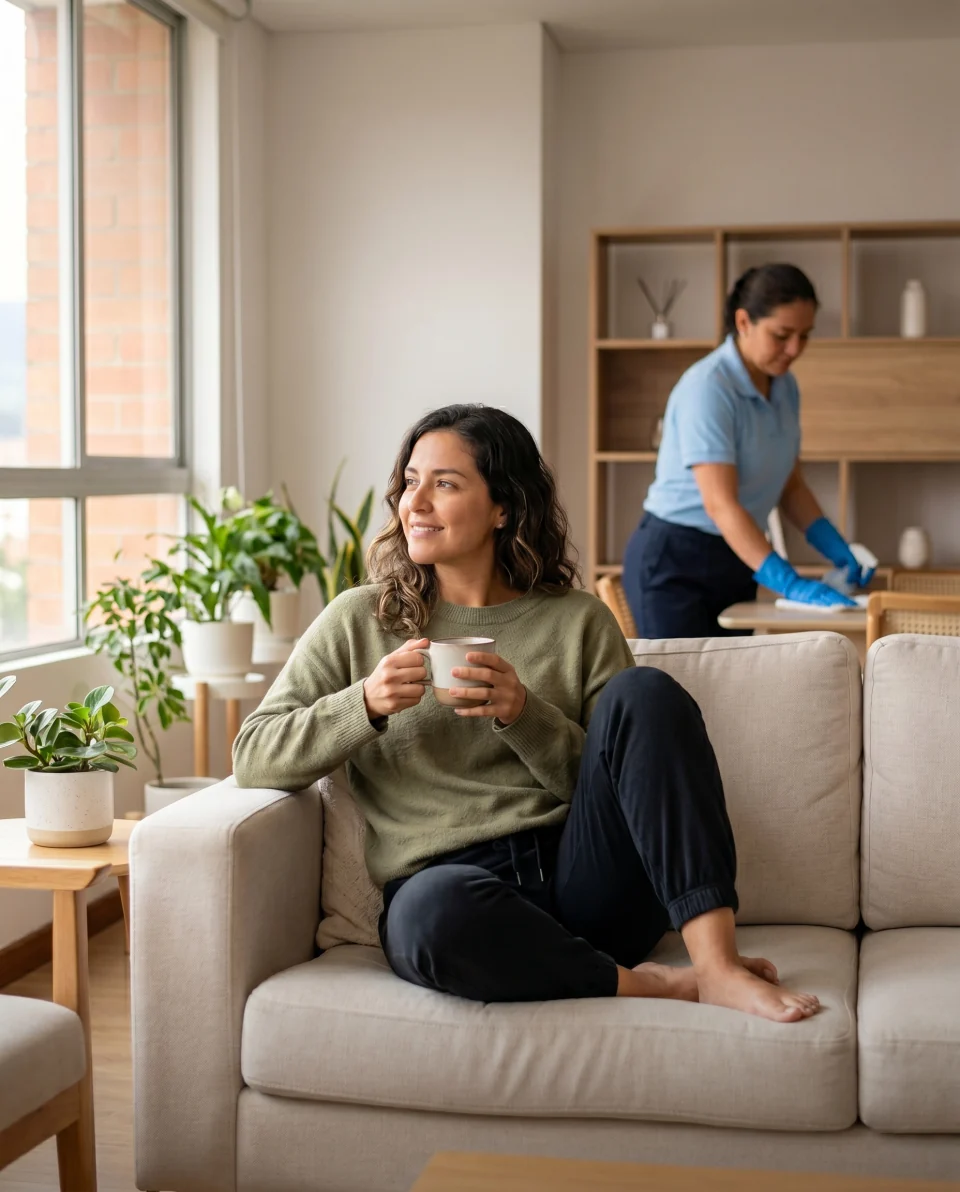
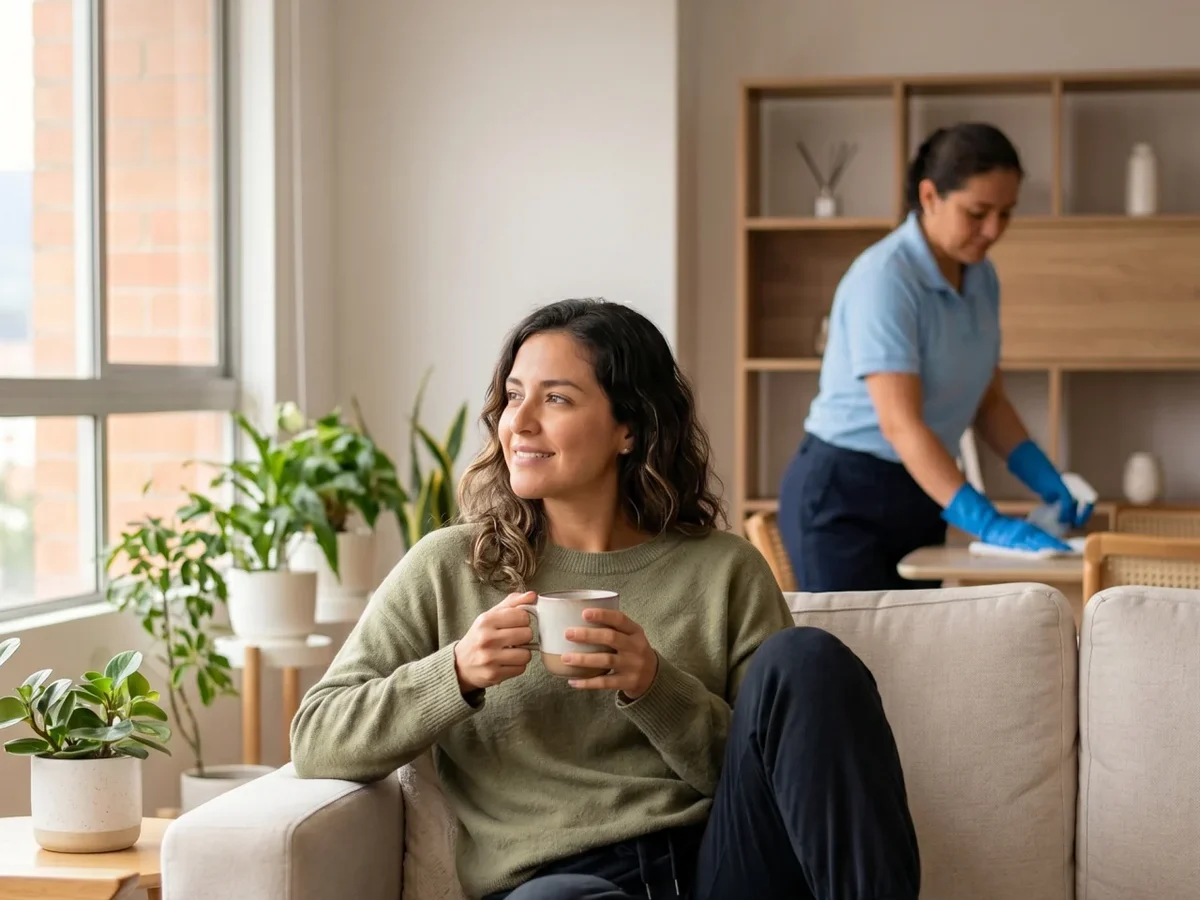
Refine Prosavis media grid, store badges, and CTA hierarchy.

diff --git a/src/components/CurrentWorkProsavis.tsx b/src/components/CurrentWorkProsavis.tsx
@@ -1,8 +1,10 @@
 import { ArrowRight, ExternalLink } from 'lucide-react'
 import {
+  PROSAVIS_APP_STORE_URL,
   PROSAVIS_GROWTH_LINE,
   PROSAVIS_HIGHLIGHTS,
   PROSAVIS_IMAGES,
+  PROSAVIS_LIMPIEZA_URL,
   PROSAVIS_NAME,
   PROSAVIS_PERIOD,
   PROSAVIS_PLAY_STORE_URL,
@@ -20,10 +22,10 @@ import Button from './ui/Button'
 import OptimizedImage from './ui/OptimizedImage'
 
 /**
- * Grilla 12 columnas:
- * 1) Cabecera de marca
- * 2) Media 7 + panel 5 (sin banner OG recortado)
- * 3) Copy/CTAs 7 + suite 5
+ * Grilla 12:
+ * 1) Cabecera
+ * 2) Dos fotos 6/6 (mismo aspect 4:3, sin overlay)
+ * 3) Copy + CTAs jerárquicos + suite
  */
 export default function CurrentWorkProsavis() {
   return (
@@ -38,8 +40,7 @@ export default function CurrentWorkProsavis() {
       />
 
       <div className="relative max-w-6xl mx-auto">
-        {/* ── 1. Cabecera ── */}
-        <header className="mb-10 md:mb-14 max-w-3xl">
+        <header className="mb-10 md:mb-12 max-w-3xl">
           <ProsavisBrand size="lg" className="mb-6" />
           <p className="inline-flex items-center gap-2 text-xs uppercase tracking-[0.25em] font-bold mb-3 text-[var(--color-accent-label)]">
             <span className="w-6 h-px bg-[var(--color-accent-primary)]" aria-hidden />
@@ -54,72 +55,61 @@ export default function CurrentWorkProsavis() {
           </p>
         </header>
 
-        {/* ── 2. Media grid (12) ── */}
-        <div className="grid grid-cols-1 md:grid-cols-12 gap-4 md:gap-5 mb-12 md:mb-16">
-          <a
-            href={PROSAVIS_URL}
-            target="_blank"
-            rel="noopener noreferrer"
-            className="md:col-span-7 group relative block overflow-hidden rounded-2xl ring-1 ring-[var(--color-border-light)]"
-          >
-            <OptimizedImage
-              src={PROSAVIS_IMAGES.limpieza.src}
-              alt={PROSAVIS_IMAGES.limpieza.alt}
-              width={PROSAVIS_IMAGES.limpieza.width}
-              height={PROSAVIS_IMAGES.limpieza.height}
-              className="h-full w-full object-cover transition-transform duration-700 ease-[cubic-bezier(0.22,1,0.36,1)] group-hover:scale-[1.02]"
-              wrapperClassName="aspect-[16/10] md:aspect-[16/11] md:min-h-[22rem]"
-            />
-            <div className="absolute inset-x-0 bottom-0 p-4 md:p-6 bg-gradient-to-t from-black/75 via-black/35 to-transparent">
-              <p className="text-white font-display text-lg md:text-2xl font-semibold">
+        {/* Dos imágenes iguales — sin espacio vacío ni texto encima */}
+        <div className="grid grid-cols-1 sm:grid-cols-2 gap-4 md:gap-5 mb-10 md:mb-14">
+          <figure className="min-w-0">
+            <a
+              href={PROSAVIS_LIMPIEZA_URL}
+              target="_blank"
+              rel="noopener noreferrer"
+              className="group block overflow-hidden rounded-2xl ring-1 ring-[var(--color-border-light)]"
+            >
+              <OptimizedImage
+                src={PROSAVIS_IMAGES.limpieza.src}
+                alt={PROSAVIS_IMAGES.limpieza.alt}
+                width={PROSAVIS_IMAGES.limpieza.width}
+                height={PROSAVIS_IMAGES.limpieza.height}
+                className="absolute inset-0 h-full w-full object-cover object-center transition-transform duration-700 ease-[cubic-bezier(0.22,1,0.36,1)] group-hover:scale-[1.02]"
+                wrapperClassName="aspect-[4/3]"
+              />
+            </a>
+            <figcaption className="mt-3 px-0.5">
+              <p className="font-display text-base font-semibold text-[var(--color-text-primary)]">
                 Prosavis Limpieza
               </p>
-              <p className="text-white/85 text-sm mt-1">Producto vivo · Eje Cafetero</p>
-            </div>
-          </a>
+              <p className="text-sm text-[var(--color-text-secondary)] mt-0.5">
+                Producto vivo · Pereira, Dosquebradas y Cerritos
+              </p>
+            </figcaption>
+          </figure>
 
-          <div className="md:col-span-5 grid grid-cols-1 sm:grid-cols-2 md:grid-cols-1 gap-4 md:gap-5 min-w-0">
-            {/* Tarjeta de mensaje completa — reemplaza el OG recortado */}
+          <figure className="min-w-0">
             <a
               href={PROSAVIS_URL}
               target="_blank"
               rel="noopener noreferrer"
-              className="group flex min-h-[11rem] md:min-h-0 md:flex-1 flex-col justify-between rounded-2xl p-5 md:p-6 text-left transition-transform duration-300 hover:-translate-y-0.5"
-              style={{ background: '#1A6FD4' }}
-            >
-              <div>
-                <p className="font-display text-xl md:text-2xl font-semibold text-white text-balance leading-snug">
-                  Servicios verificados en Colombia
-                </p>
-                <p className="mt-2 text-sm text-white/90 leading-relaxed">
-                  Plomería · Limpieza · Electricidad y más
-                </p>
-              </div>
-              <span className="mt-5 inline-flex w-fit items-center gap-2 rounded-full bg-white px-4 py-2 text-sm font-semibold text-[#0B1220]">
-                prosavis.com
-                <ExternalLink size={14} aria-hidden />
-              </span>
-            </a>
-
-            <a
-              href={PROSAVIS_URL}
-              target="_blank"
-              rel="noopener noreferrer"
-              className="group relative block overflow-hidden rounded-2xl ring-1 ring-[var(--color-border-light)] md:flex-1"
+              className="group block overflow-hidden rounded-2xl ring-1 ring-[var(--color-border-light)]"
             >
               <OptimizedImage
                 src={PROSAVIS_IMAGES.relax.src}
                 alt={PROSAVIS_IMAGES.relax.alt}
                 width={PROSAVIS_IMAGES.relax.width}
                 height={PROSAVIS_IMAGES.relax.height}
-                className="h-full w-full object-cover transition-transform duration-700 ease-[cubic-bezier(0.22,1,0.36,1)] group-hover:scale-[1.02]"
-                wrapperClassName="aspect-[16/10] sm:aspect-[4/3] md:aspect-auto md:h-full md:min-h-[10.5rem]"
+                className="absolute inset-0 h-full w-full object-cover object-center transition-transform duration-700 ease-[cubic-bezier(0.22,1,0.36,1)] group-hover:scale-[1.02]"
+                wrapperClassName="aspect-[4/3]"
               />
             </a>
-          </div>
+            <figcaption className="mt-3 px-0.5">
+              <p className="font-display text-base font-semibold text-[var(--color-text-primary)]">
+                Marketplace de servicios
+              </p>
+              <p className="text-sm text-[var(--color-text-secondary)] mt-0.5">
+                Profesionales verificados en Colombia
+              </p>
+            </figcaption>
+          </figure>
         </div>
 
-        {/* ── 3. Copy + suite (12) ── */}
         <div className="grid grid-cols-1 lg:grid-cols-12 gap-10 lg:gap-14 items-start">
           <div className="lg:col-span-7 space-y-6">
             <div className="flex flex-wrap items-center gap-2">
@@ -147,34 +137,75 @@ export default function CurrentWorkProsavis() {
               ))}
             </ul>
 
-            <div className="flex flex-col sm:flex-row flex-wrap gap-3 pt-2">
+            {/* CTA primario grande */}
+            <div className="pt-2 space-y-4">
               <Button
                 variant="primary"
                 href={PROSAVIS_URL}
                 external
                 animated
-                trailingIcon={<ExternalLink size={14} />}
-                className="w-full sm:w-auto justify-center"
+                trailingIcon={<ExternalLink size={18} />}
+                className="!h-14 !px-8 !text-base w-full sm:w-auto justify-center shadow-[var(--shadow-cta)]"
               >
                 Ver Prosavis
               </Button>
-              <Button
-                variant="secondary"
-                href={PROSAVIS_PLAY_STORE_URL}
-                external
-                trailingIcon={<ExternalLink size={14} />}
-                className="w-full sm:w-auto justify-center"
-              >
-                Google Play
-              </Button>
-              <Button
-                variant="ghost"
-                href="#contacto"
-                trailingIcon={<ArrowRight size={14} />}
-                className="w-full sm:w-auto justify-center"
-              >
-                ¿Un producto así para tu empresa?
-              </Button>
+
+              {/* Badges de tiendas */}
+              <div className="flex flex-wrap items-center gap-3">
+                <a
+                  href={PROSAVIS_PLAY_STORE_URL}
+                  target="_blank"
+                  rel="noopener noreferrer"
+                  className="inline-flex transition-opacity hover:opacity-90"
+                >
+                  <img
+                    src={PROSAVIS_IMAGES.badgePlay.src}
+                    alt={PROSAVIS_IMAGES.badgePlay.alt}
+                    width={PROSAVIS_IMAGES.badgePlay.width}
+                    height={PROSAVIS_IMAGES.badgePlay.height}
+                    loading="lazy"
+                    decoding="async"
+                    className="h-12 w-auto"
+                  />
+                </a>
+                <a
+                  href={PROSAVIS_APP_STORE_URL}
+                  target="_blank"
+                  rel="noopener noreferrer"
+                  className="inline-flex transition-opacity hover:opacity-90"
+                >
+                  <img
+                    src={PROSAVIS_IMAGES.badgeAppStore.src}
+                    alt={PROSAVIS_IMAGES.badgeAppStore.alt}
+                    width={PROSAVIS_IMAGES.badgeAppStore.width}
+                    height={PROSAVIS_IMAGES.badgeAppStore.height}
+                    loading="lazy"
+                    decoding="async"
+                    className="h-12 w-auto"
+                  />
+                </a>
+              </div>
+
+              {/* Secundarios */}
+              <div className="flex flex-col sm:flex-row flex-wrap gap-2.5">
+                <Button
+                  variant="secondary"
+                  href={PROSAVIS_LIMPIEZA_URL}
+                  external
+                  trailingIcon={<ExternalLink size={14} />}
+                  className="w-full sm:w-auto justify-center !text-sm"
+                >
+                  Prosavis Limpieza
+                </Button>
+                <Button
+                  variant="ghost"
+                  href="#contacto"
+                  trailingIcon={<ArrowRight size={14} />}
+                  className="w-full sm:w-auto justify-center !text-sm"
+                >
+                  ¿Un producto así para tu empresa?
+                </Button>
+              </div>
             </div>
           </div>
 

diff --git a/src/data/prosavis.ts b/src/data/prosavis.ts
@@ -4,8 +4,13 @@ export const PROSAVIS_NAME = 'Prosavis'
 
 export const PROSAVIS_URL = 'https://prosavis.com/'
 
+export const PROSAVIS_LIMPIEZA_URL = 'https://prosavis.com/limpieza'
+
 export const PROSAVIS_PLAY_STORE_URL =
   'https://play.google.com/store/apps/details?id=com.prosavis.app'
+
+export const PROSAVIS_APP_STORE_URL =
+  'https://apps.apple.com/co/app/prosavis/id6754036487'
 
 export const PROSAVIS_ROLE_TITLE = 'App Lead Developer'
 
@@ -26,7 +31,7 @@ export const PROSAVIS_GROWTH_LINE =
 export const PROSAVIS_SUITE = [
   {
     name: 'App móvil',
-    detail: 'Producto principal en Android (Google Play) para contratar servicios verificados.',
+    detail: 'Producto principal en Android e iOS para contratar servicios verificados.',
   },
   {
     name: 'Web',
@@ -59,14 +64,12 @@ export const PROSAVIS_HIGHLIGHTS = [
 
 /** Assets públicos de Prosavis-Web / branding (copiados a este sitio). */
 export const PROSAVIS_IMAGES = {
-  /** Ícono vectorial naranja→amarillo (LogoIcono.svg). Preferido sobre PNG/WebP. */
   logo: {
     src: '/images/prosavis/logo.svg',
     alt: 'Logo Prosavis',
     width: 56,
     height: 56,
   },
-  /** Wordmark PROSAVIS (App branding). Mejor contraste sobre chip claro u oscuro. */
   wordmark: {
     src: '/images/prosavis/nombre.webp',
     alt: 'Prosavis',
@@ -82,19 +85,31 @@ export const PROSAVIS_IMAGES = {
   limpieza: {
     src: '/images/prosavis/limpieza-hero.webp',
     alt: 'Profesional de Prosavis Limpieza en servicio',
-    width: 960,
-    height: 640,
+    width: 1200,
+    height: 900,
   },
   relax: {
     src: '/images/prosavis/limpieza-relax.webp',
-    alt: 'Experiencia Prosavis Limpieza — espacio listo',
-    width: 960,
-    height: 640,
+    alt: 'Cliente disfrutando mientras Prosavis se encarga',
+    width: 1200,
+    height: 900,
   },
   mascot: {
     src: '/images/prosavis/prosavito.webp',
     alt: 'Prosavito, mascota de Prosavis',
     width: 320,
     height: 320,
+  },
+  badgePlay: {
+    src: '/images/prosavis/badge-google-play.webp',
+    alt: 'Disponible en Google Play',
+    width: 180,
+    height: 70,
+  },
+  badgeAppStore: {
+    src: '/images/prosavis/badge-app-store.svg',
+    alt: 'Consíguelo en el App Store',
+    width: 148,
+    height: 50,
   },
 } as const
